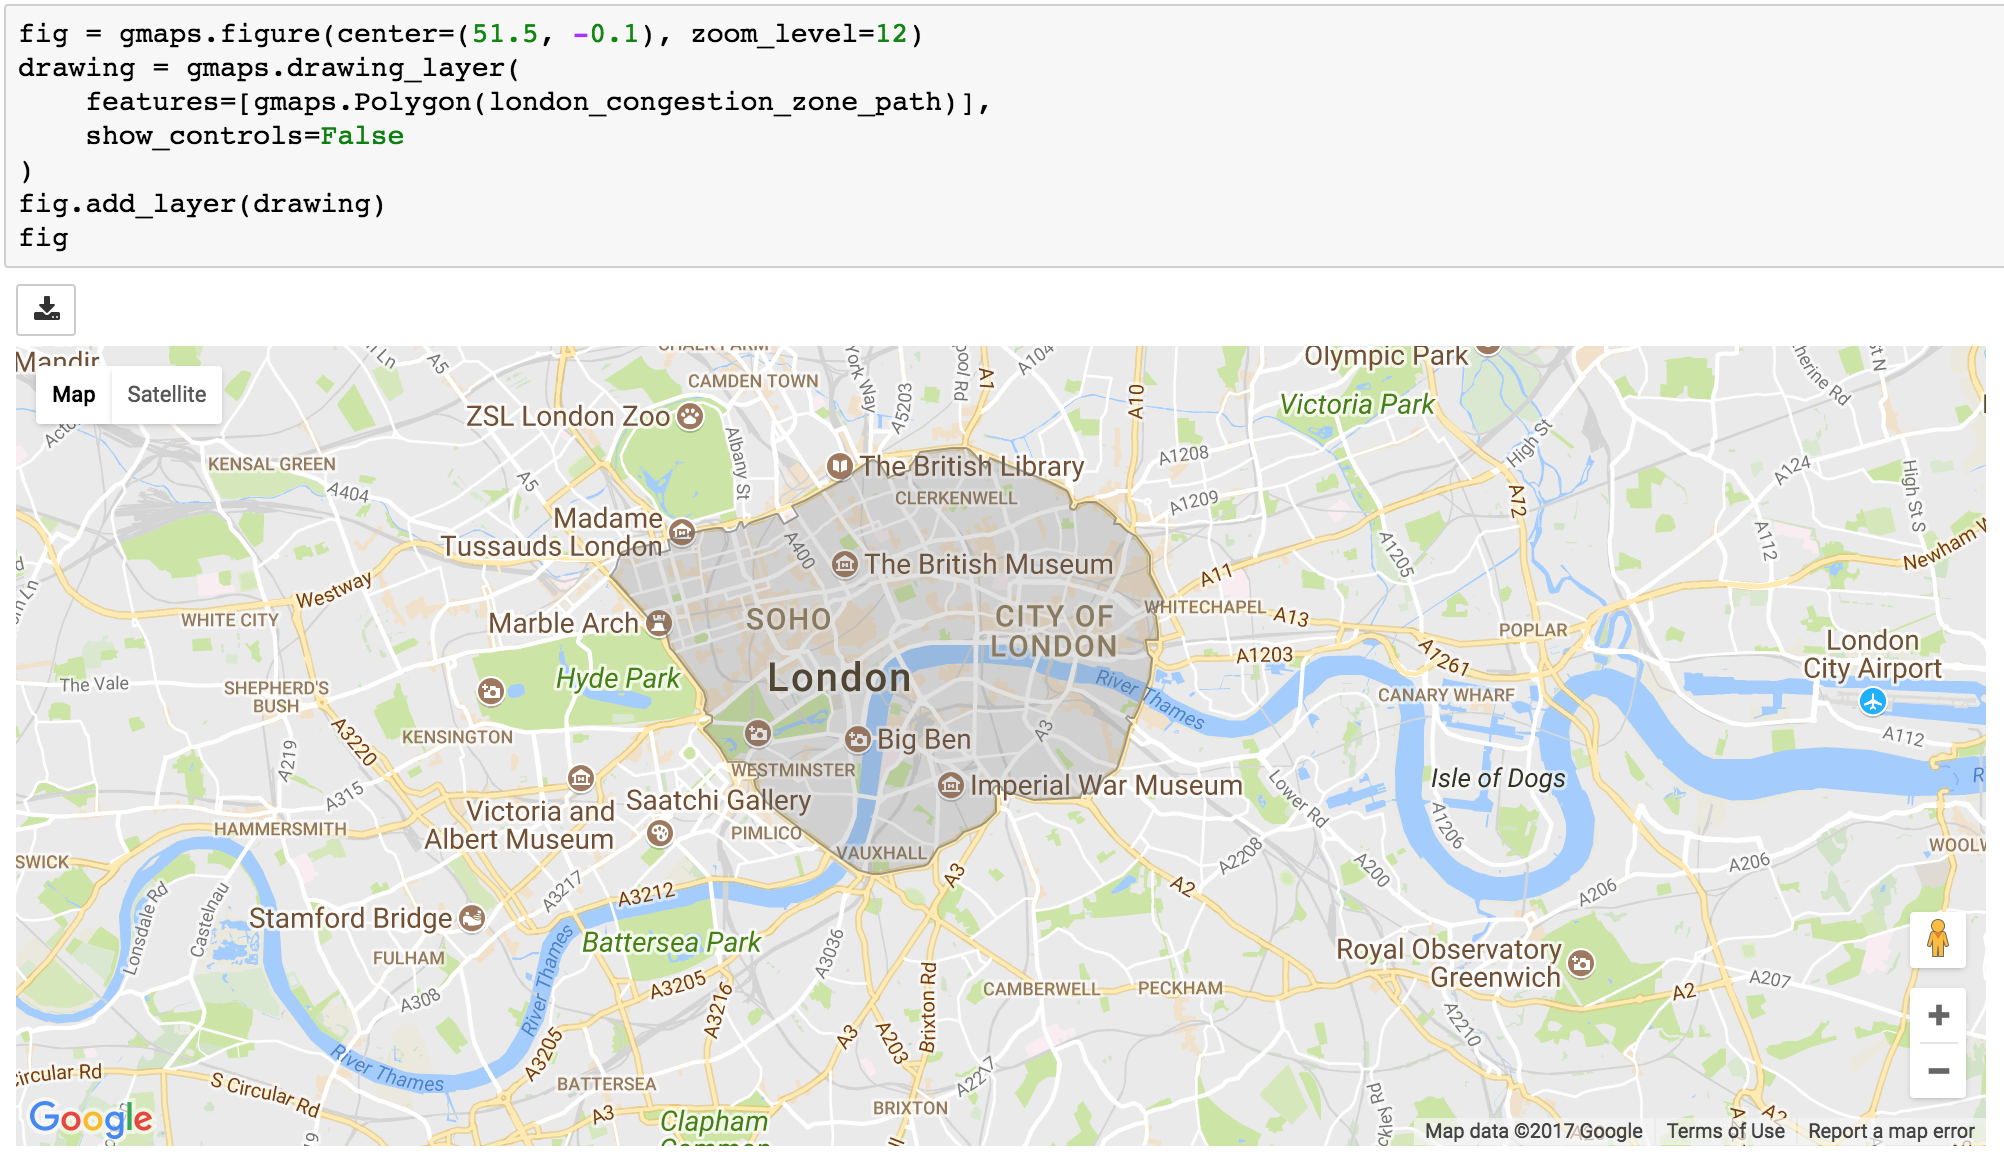
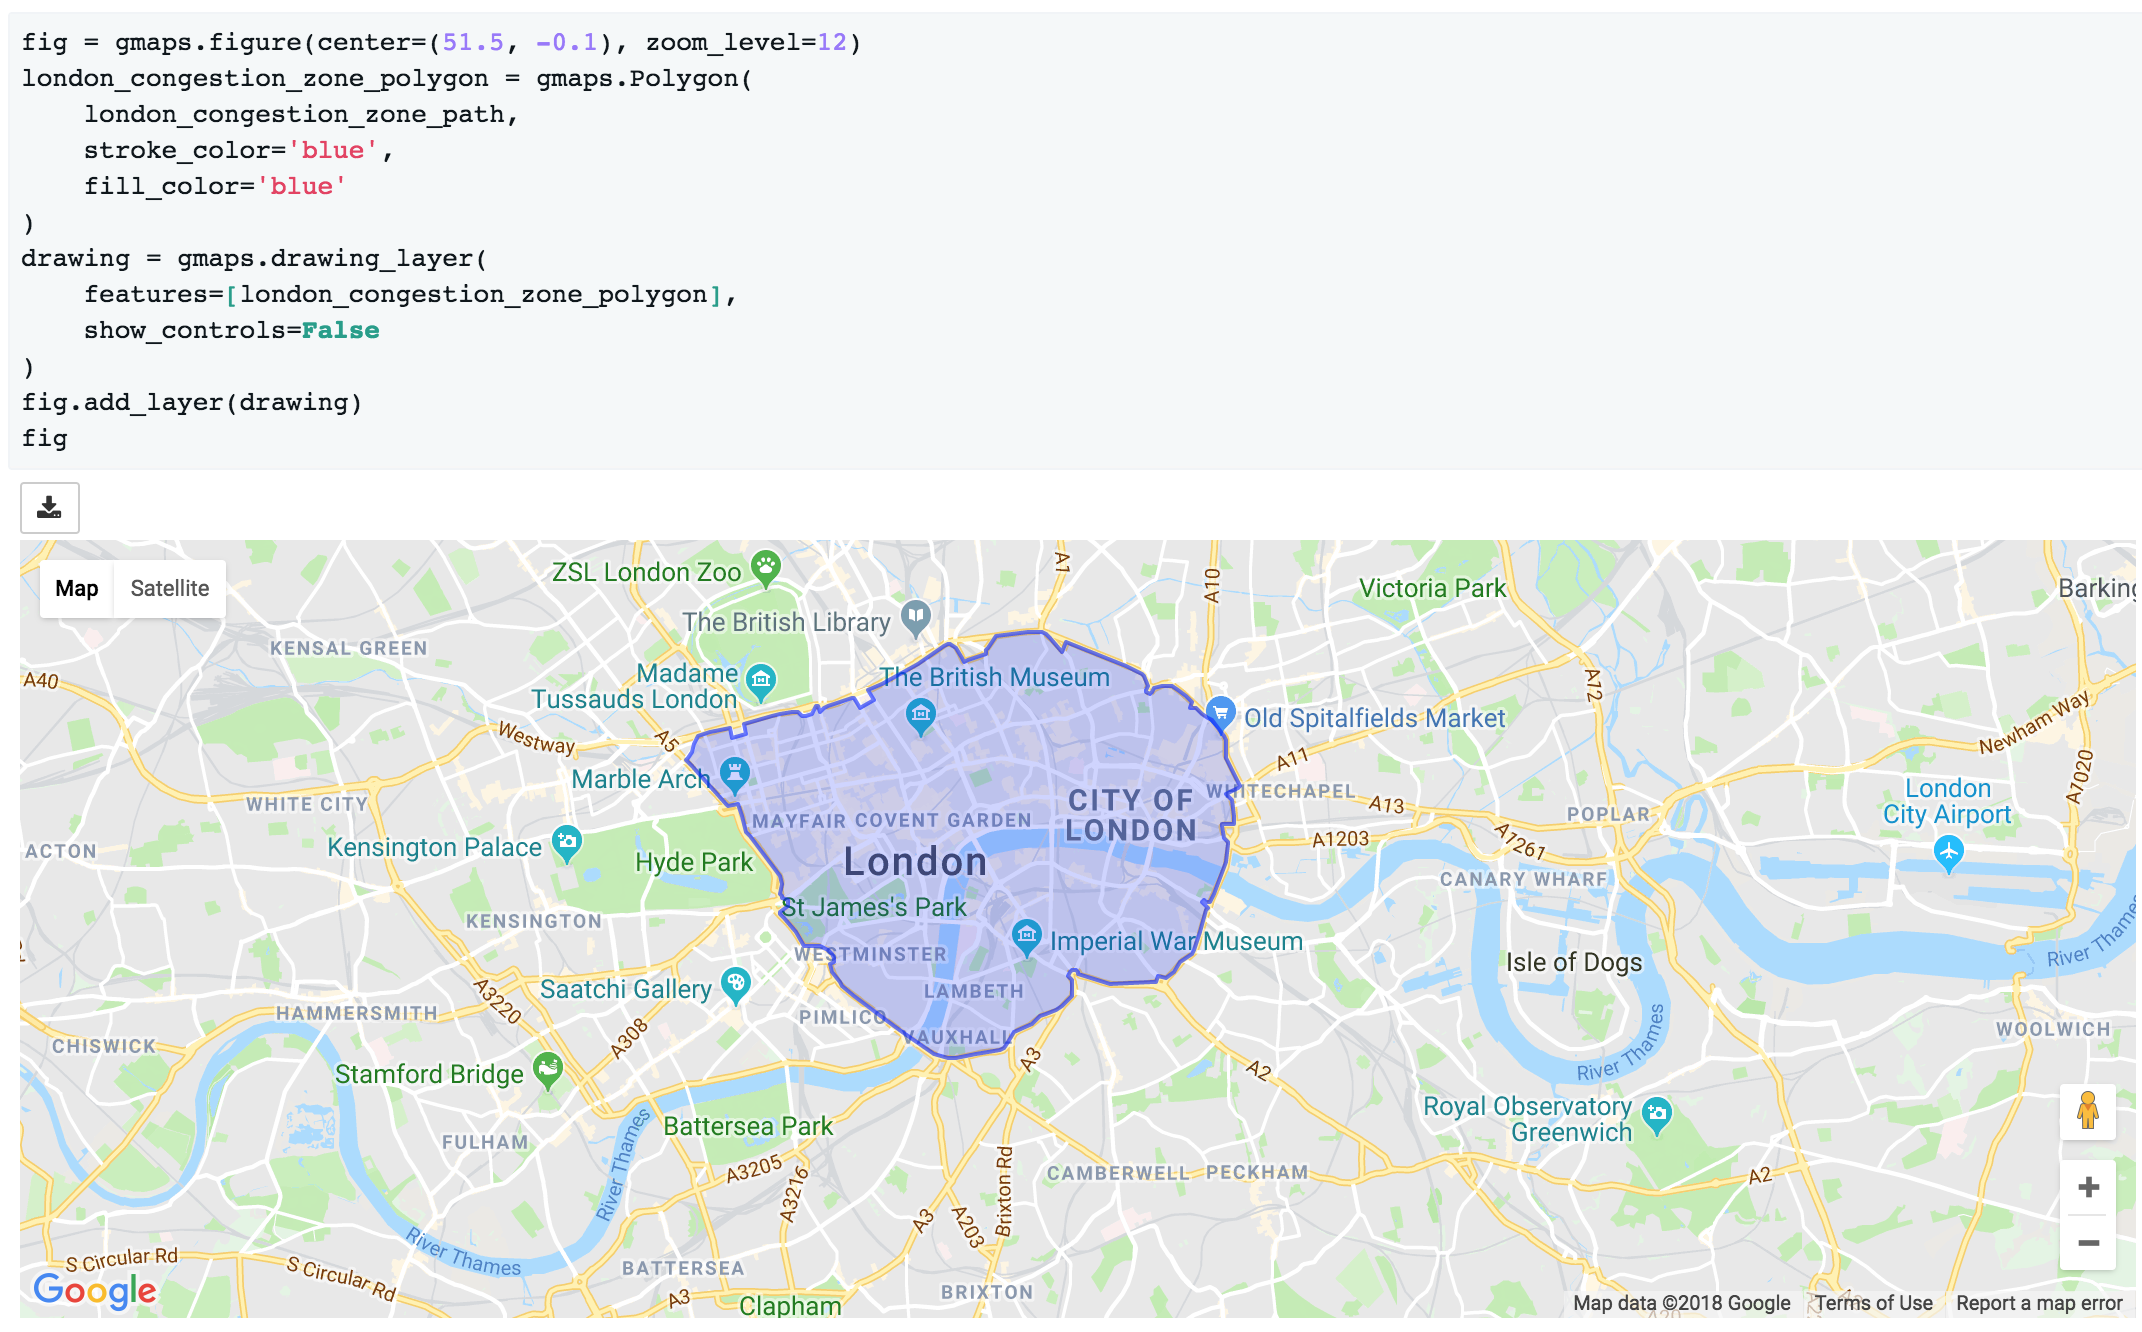
Update tutorial to show how to style polygons

diff --git a/docs/source/tutorial.rst b/docs/source/tutorial.rst
@@ -557,8 +557,13 @@ charge zone <https://en.wikipedia.org/wiki/London_congestion_charge>`_.
 We can draw this on the map with a :class:`gmaps.Polygon`::
 
   fig = gmaps.figure(center=(51.5, -0.1), zoom_level=12)
+  london_congestion_zone_polygon = gmaps.Polygon(
+      london_congestion_zone_path,
+      stroke_color='blue',
+      fill_color='blue'
+  )
   drawing = gmaps.drawing_layer(
-      features=[gmaps.Polygon(london_congestion_zone_path)],
+      features=[london_congestion_zone_polygon],
       show_controls=False
   )
   fig.add_layer(drawing)
@@ -567,7 +572,8 @@ We can draw this on the map with a :class:`gmaps.Polygon`::
 .. image:: _images/drawing_example2.png
 
 We can pass an arbitrary list of `(latitude, longitude)` pairs to
-`gmaps.Polygon` to specify complex shapes.
+`gmaps.Polygon` to specify complex shapes. For details on how to style polygons,
+see the :class:`gmaps.Polygon` API documentation.
 
 See the API documentation for :func:`gmaps.drawing_layer` for an exhaustive list
 of options for the drawing layer.
